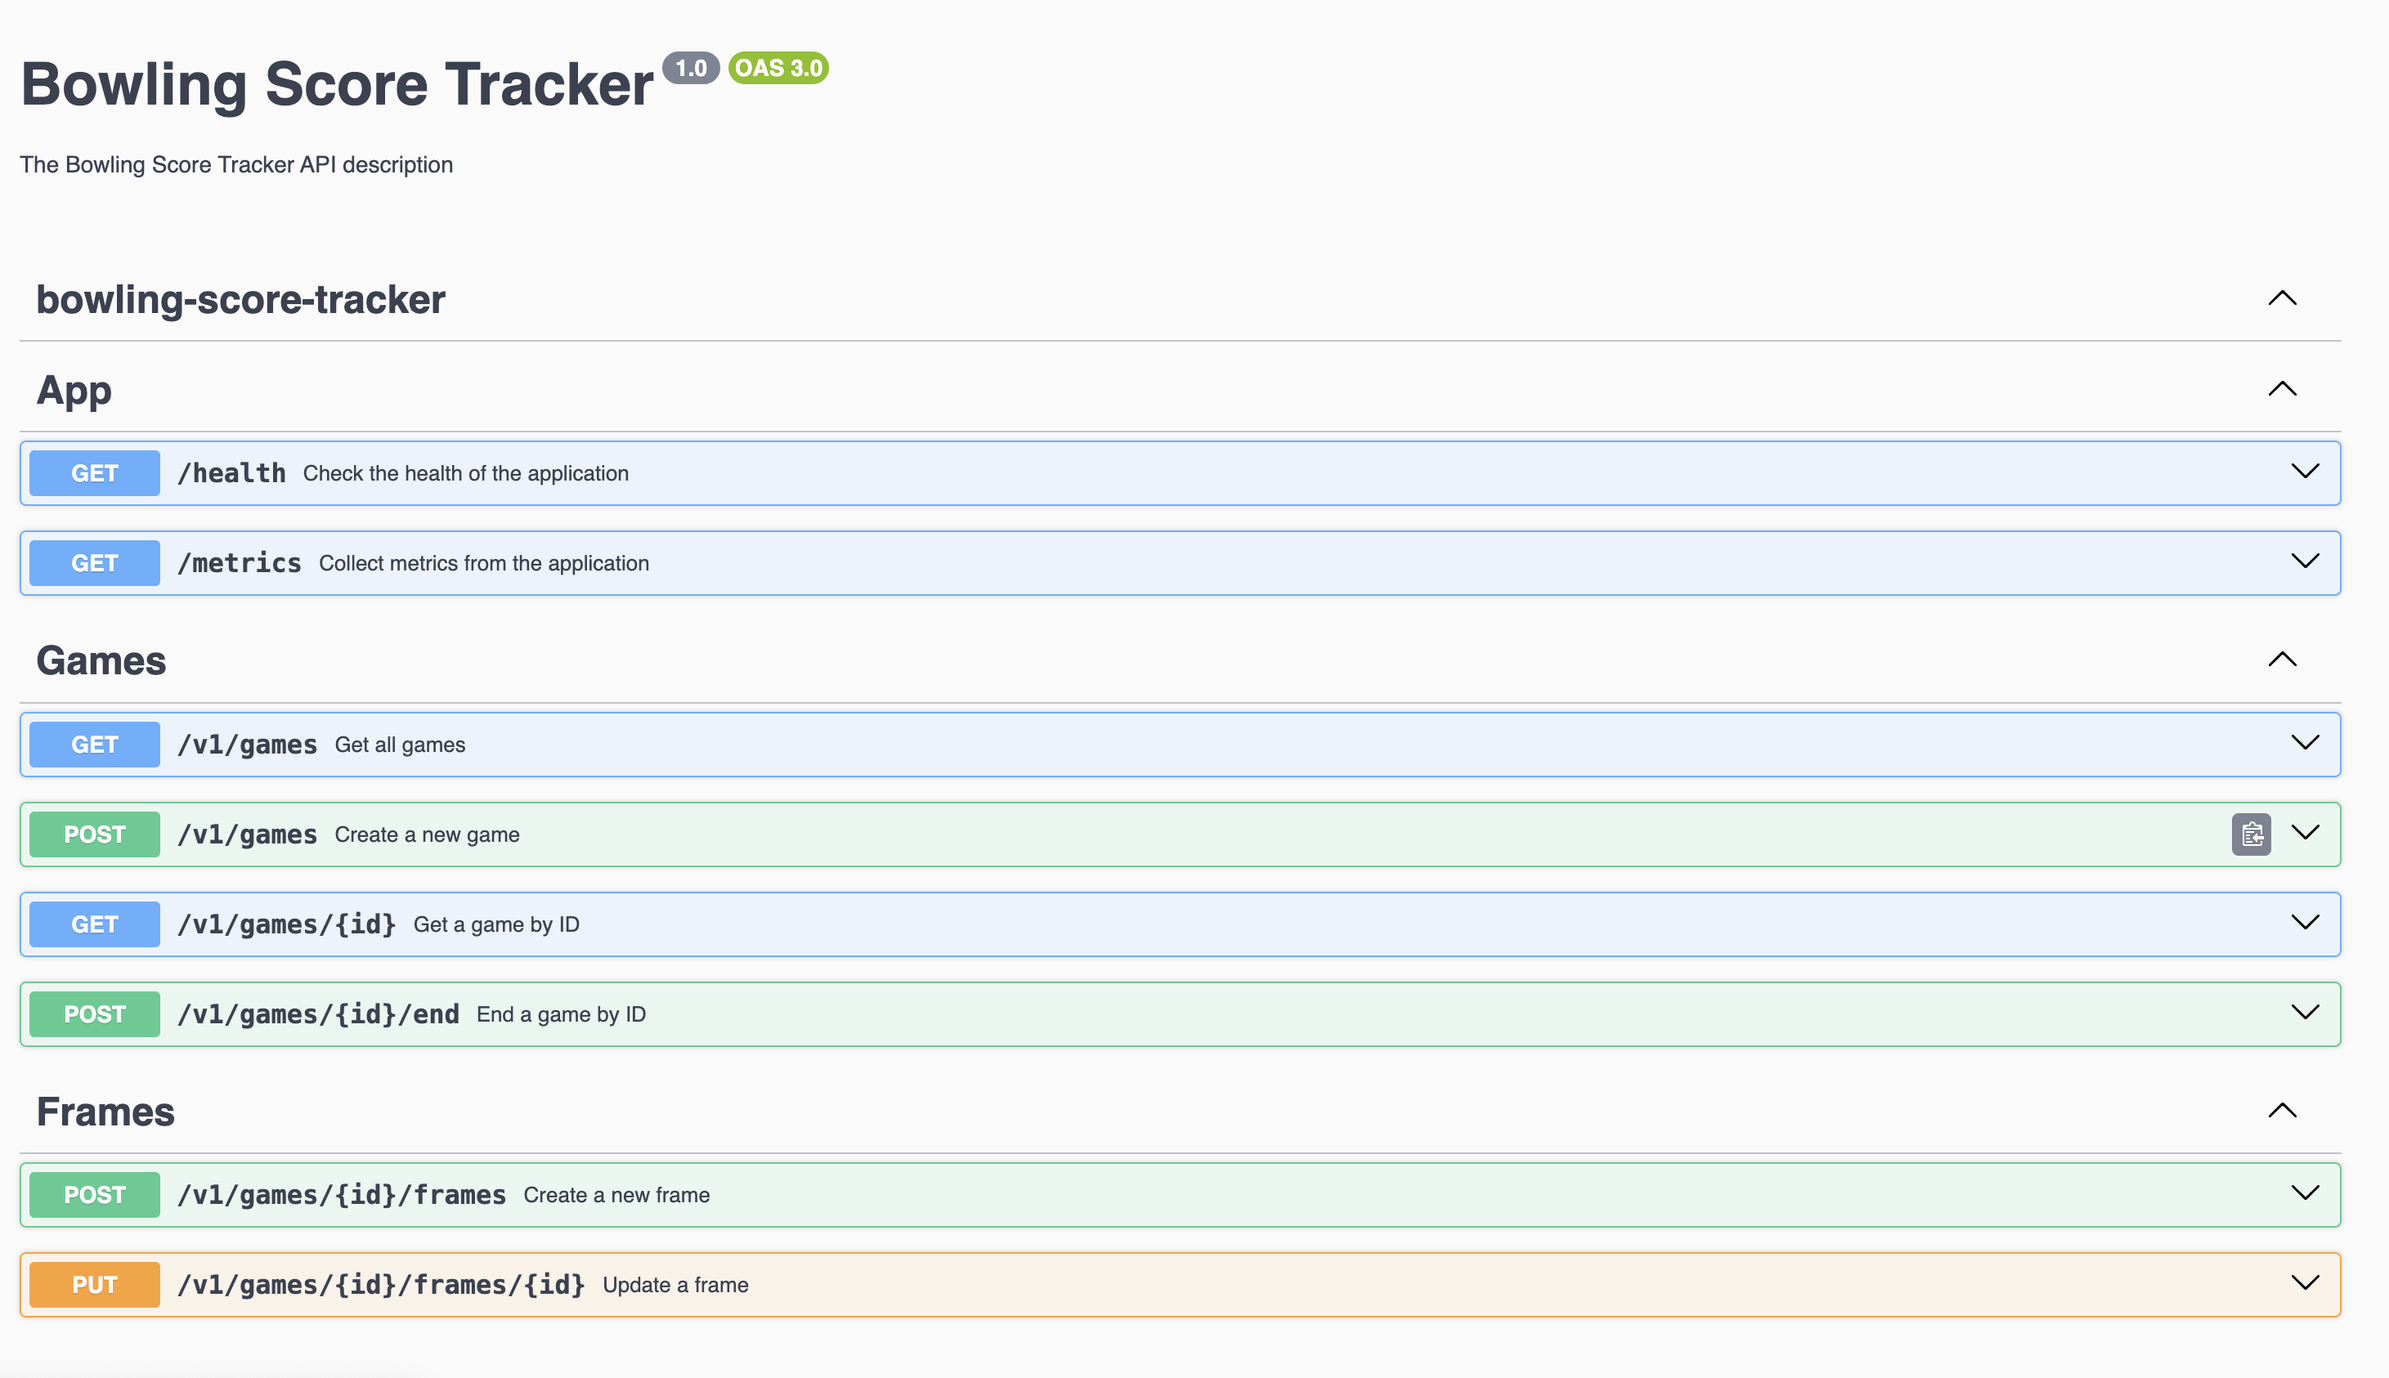
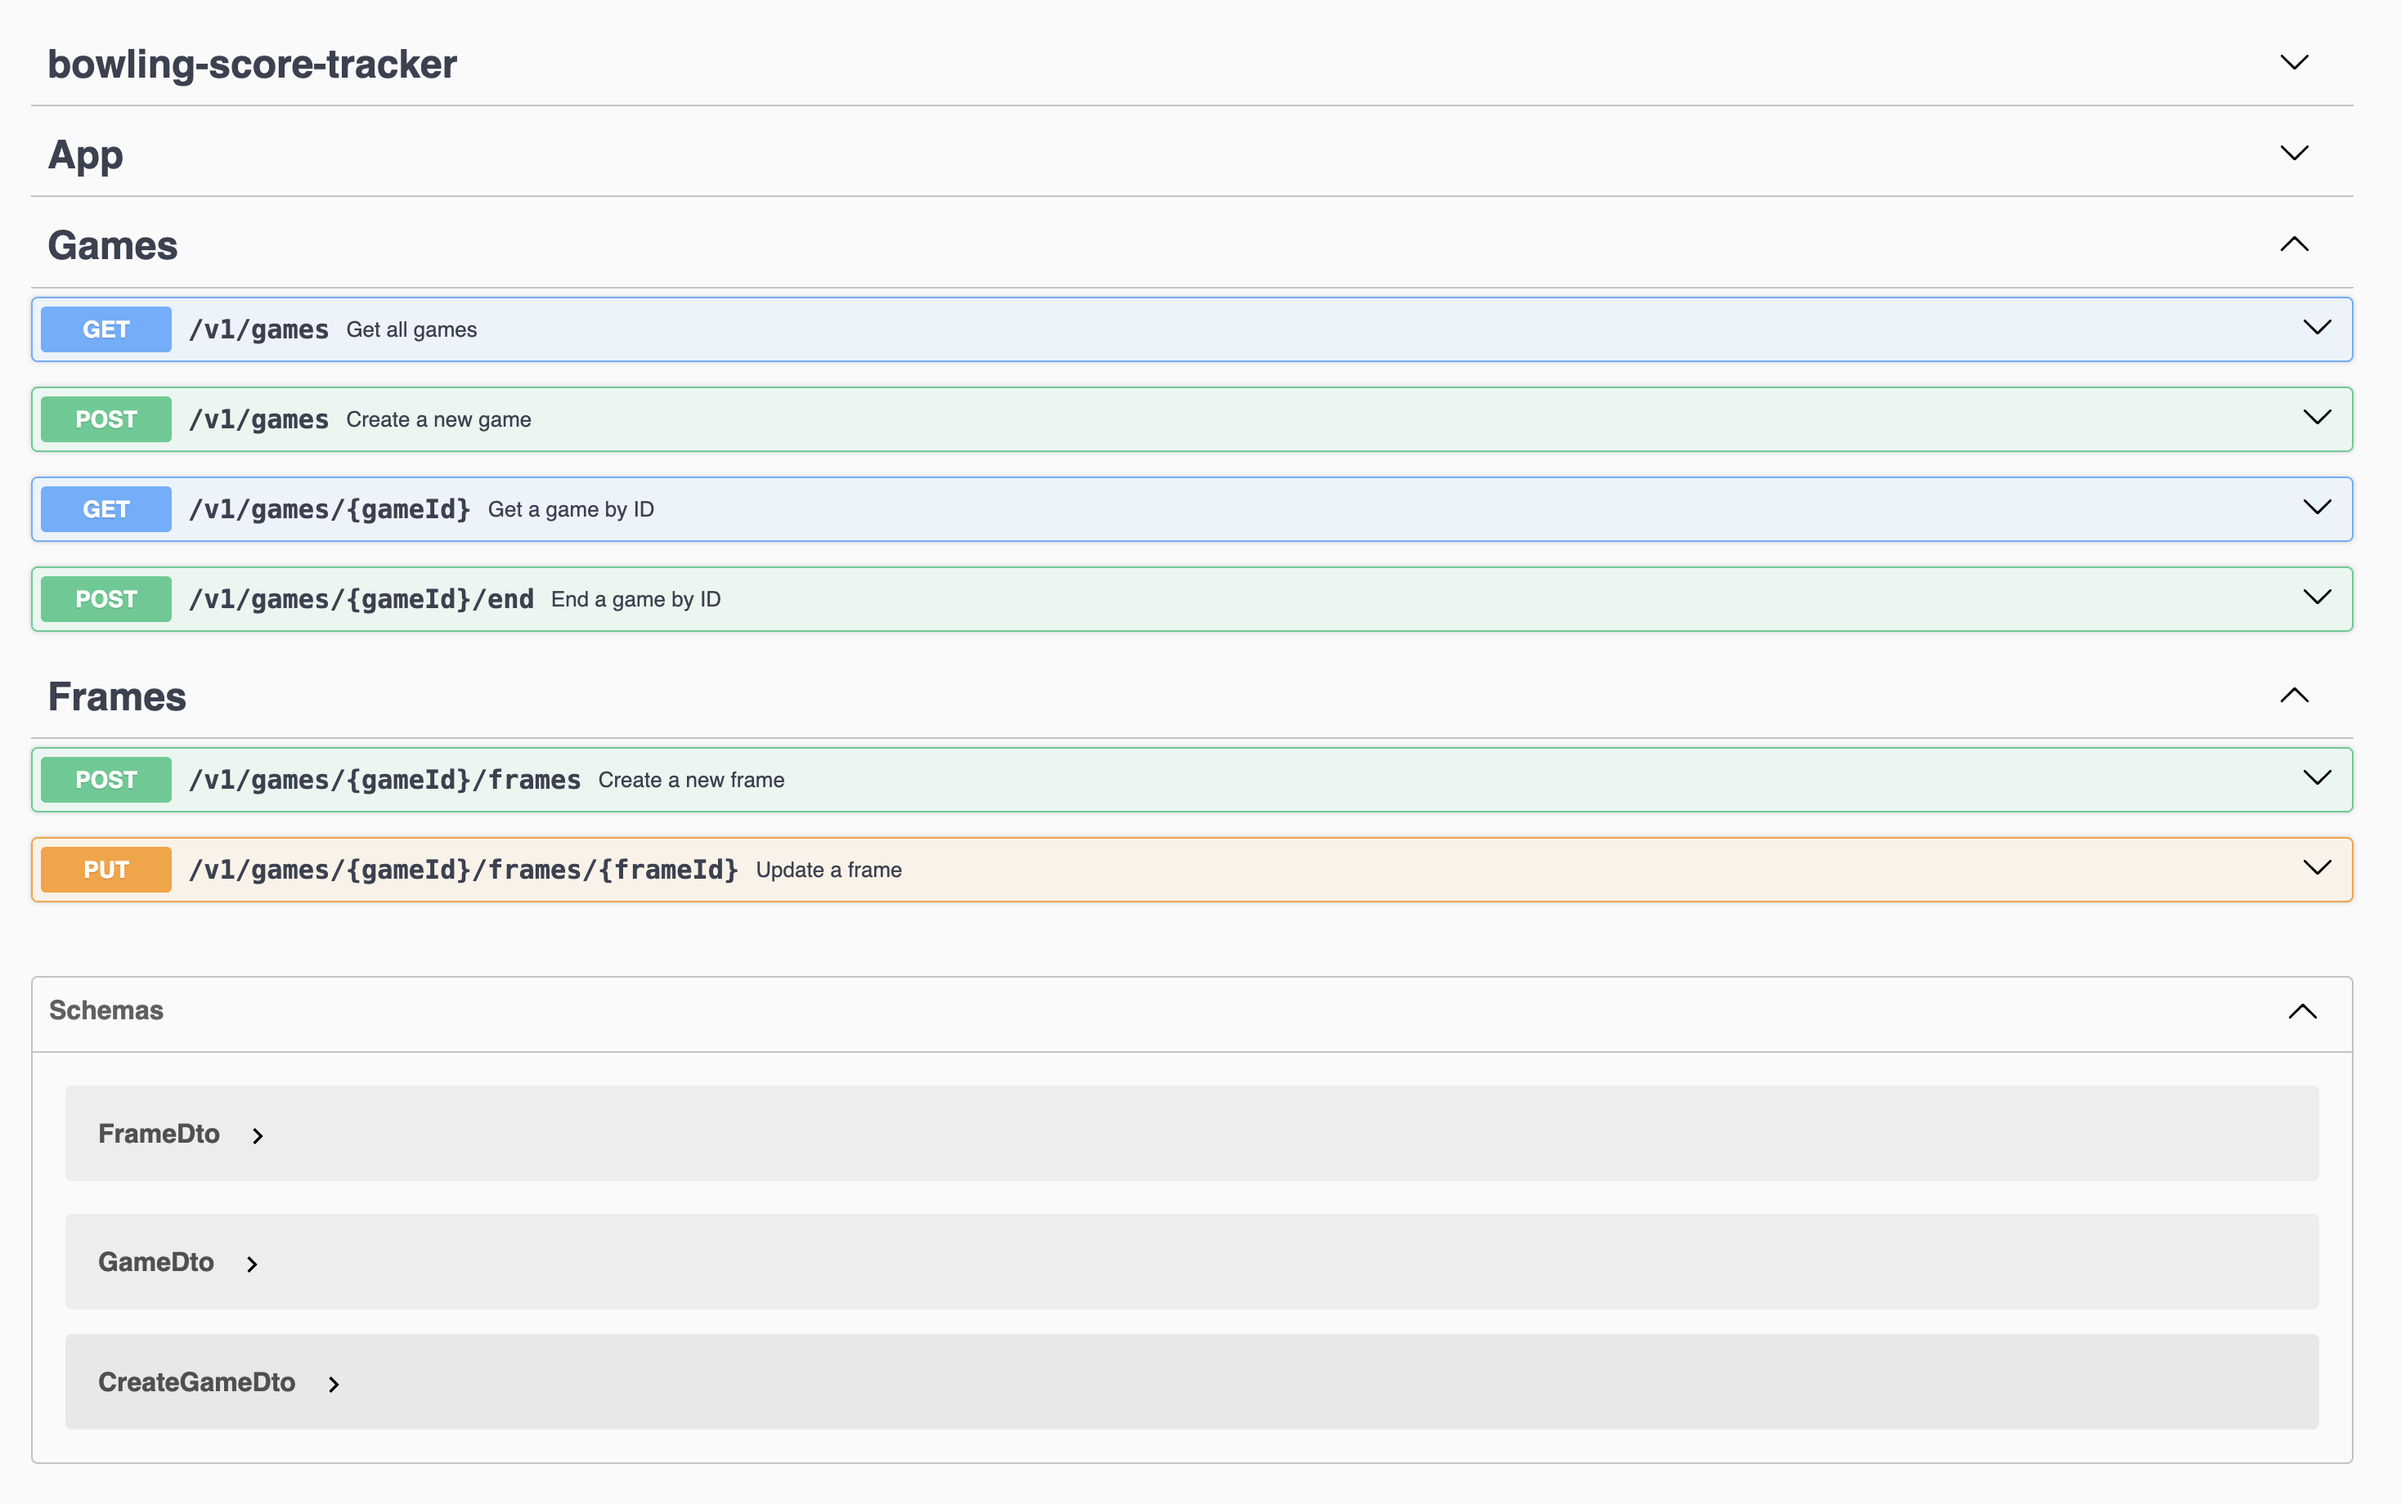
feat(api,web) 👌 refactor contract

diff --git a/apps/web/lib/api-generated/api.ts b/apps/web/lib/api-generated/api.ts
@@ -56,7 +56,7 @@ export interface paths {
         patch?: never;
         trace?: never;
     };
-    "/v1/games/{id}": {
+    "/v1/games/{gameId}": {
         parameters: {
             query?: never;
             header?: never;
@@ -73,7 +73,7 @@ export interface paths {
         patch?: never;
         trace?: never;
     };
-    "/v1/games/{id}/end": {
+    "/v1/games/{gameId}/end": {
         parameters: {
             query?: never;
             header?: never;
@@ -90,7 +90,7 @@ export interface paths {
         patch?: never;
         trace?: never;
     };
-    "/v1/games/{id}/frames": {
+    "/v1/games/{gameId}/frames": {
         parameters: {
             query?: never;
             header?: never;
@@ -107,7 +107,7 @@ export interface paths {
         patch?: never;
         trace?: never;
     };
-    "/v1/games/{id}/frames/{id}": {
+    "/v1/games/{gameId}/frames/{frameId}": {
         parameters: {
             query?: never;
             header?: never;
@@ -254,7 +254,7 @@ export interface operations {
             query?: never;
             header?: never;
             path: {
-                id: string;
+                gameId: string;
             };
             cookie?: never;
         };
@@ -276,7 +276,7 @@ export interface operations {
             query?: never;
             header?: never;
             path: {
-                id: string;
+                gameId: string;
             };
             cookie?: never;
         };
@@ -320,7 +320,7 @@ export interface operations {
             query?: never;
             header?: never;
             path: {
-                id: string;
+                frameId: string;
             };
             cookie?: never;
         };

diff --git a/apps/api/src/features/frames/frames.controller.ts b/apps/api/src/features/frames/frames.controller.ts
@@ -4,7 +4,7 @@ import { ApiOperation, ApiCreatedResponse, ApiOkResponse } from '@nestjs/swagger
 import { FramesService } from './frames.service';
 import { FrameDto } from './frame.dto';
 
-@Controller('games/:id/frames')
+@Controller('games/:gameId/frames')
 export class FramesController {
   constructor(private readonly framesService: FramesService) {}
 
@@ -15,10 +15,10 @@ export class FramesController {
     return this.framesService.create(createFrameDto);
   }
 
-  @Put(':id')
+  @Put(':frameId')
   @ApiOperation({ summary: 'Update a frame' })
   @ApiOkResponse({ description: 'Frame has been successfully updated.'}) 
-  async update(@Param('id') id: string, @Body() updateFrameDto: FrameDto): Promise<FrameDto> {
+  async update(@Param('frameId') id: string, @Body() updateFrameDto: FrameDto): Promise<FrameDto> {
     return this.framesService.update(id, updateFrameDto);
   }
 }

diff --git a/apps/web/app/page.tsx b/apps/web/app/page.tsx
@@ -1,11 +1,19 @@
 import { Button } from "@repo/ui/components/button"
+import Link from "next/link"
 
 export default function Page() {
   return (
     <div className="flex items-center justify-center min-h-svh">
       <div className="flex flex-col items-center justify-center gap-4">
-        <h1 className="text-2xl font-bold">Hello World</h1>
-        <Button size="sm">Button</Button>
+        <h1 className="text-2xl font-bold">Bowling Score Tracker</h1>
+        <div className="flex flex-col gap-4 min-w-[400px] mt-10">
+          <Button asChild className="w-full">
+            <Link href="/game-play">New Game</Link>
+          </Button>
+          <Button className="w-full" variant={"secondary"}>
+            <Link href="/game-history">View Scores</Link> 
+          </Button>
+        </div>
       </div>
     </div>
   )

diff --git a/apps/api/src/features/games/games.controller.ts b/apps/api/src/features/games/games.controller.ts
@@ -22,17 +22,17 @@ export class GamesController {
     return this.gamesService.create(createGameDto);
   }
 
-  @Get(':id')
+  @Get(':gameId')
   @ApiOperation({ summary: 'Get a game by ID' })
   @ApiOkResponse({ type: GameDto, description: 'Game has been successfully retrieved.'})
-  async findOne(@Param('id') id: string): Promise<GameDto> {
+  async findOne(@Param('gameId') id: string): Promise<GameDto> {
     return this.gamesService.findOne(id);
   }
 
-  @Post(':id/end')
+  @Post(':gameId/end')
   @ApiOperation({ summary: 'End a game by ID' })
   @ApiCreatedResponse({ type: GameDto, description: 'Game has been successfully ended.'})
-  async endGame(@Param('id') id: string): Promise<GameDto> {
+  async endGame(@Param('gameId') id: string): Promise<GameDto> {
     return this.gamesService.endGame(id);
   }
 }

diff --git a/apps/web/app/game-play/_hooks/mutation.ts b/apps/web/app/game-play/_hooks/mutation.ts
@@ -1,0 +1,17 @@
+import { useApiClient } from "@/hooks/common";
+
+export const useGameCreationMutation = () => {
+  return useApiClient().useMutation("post", "/v1/games");
+};
+``
+export const useGameEndMutation = () => {
+  return useApiClient().useMutation("post", "/v1/games/{gameId}/end");
+};
+
+export const useGameFrameCreationMutation = () => {
+  return useApiClient().useMutation("post", "/v1/games/{gameId}/frames");
+};
+
+export const useGameFrameUpdateMutation = () => {
+  return useApiClient().useMutation("put", "/v1/games/{gameId}/frames/{frameId}");
+};

diff --git a/apps/api/src/features/frames/frames.controller.spec.ts b/apps/api/src/features/frames/frames.controller.spec.ts
@@ -28,7 +28,7 @@ describe('FramesController', () => {
     jest.clearAllMocks();
   });
 
-  describe('POST /games/:id/frames', () => {
+  describe('POST /games/:gameId/frames', () => {
     it('should create a frame', async () => {
       const newFrame = {
         game_id: '1',
@@ -56,7 +56,7 @@ describe('FramesController', () => {
     })
   })
 
-  describe('PUT /games/:id/frames/:frameId', () => {
+  describe('PUT /games/:gameId/frames/:frameId', () => {
     it('should update a frame', async () => {
        const existedFrame = {
         game_id: '1',

diff --git a/apps/web/app/game-play/_hooks/query.ts b/apps/web/app/game-play/_hooks/query.ts
@@ -1,0 +1,13 @@
+import { useApiClient } from "@/hooks/common";
+
+export const useGameHistoryQuery = () => {
+  return useApiClient().useQuery("get", "/v1/games");
+};
+
+export const useGameDetailQuery = (gameId: string) => {
+  return useApiClient().useQuery("get", "/v1/games/{gameId}", {
+     params: {
+        path: { gameId },
+      },
+  });
+}

diff --git a/apps/web/lib/openapi.ts b/apps/web/lib/openapi.ts
@@ -1,0 +1,12 @@
+
+import type { paths } from "@/lib/api-generated/api";
+import createClient from "openapi-fetch";
+
+export const createOpenApiClient = () => {
+  return createClient<paths>({
+    baseUrl: process.env.NEXT_PUBLIC_CLIENT_API_URL,
+    headers: {
+      "Content-Type": "application/json",
+    },
+  });
+};

diff --git a/apps/web/hooks/common.ts b/apps/web/hooks/common.ts
@@ -1,0 +1,9 @@
+
+import createClient from "openapi-react-query";
+import { createOpenApiClient } from "@/lib/openapi";
+import { useMemo } from "react";
+
+export const useApiClient = () => {
+  const client = createOpenApiClient();
+  return useMemo(() => createClient(client), [client]);
+};

diff --git a/apps/web/app/game-play/_hooks/types.ts b/apps/web/app/game-play/_hooks/types.ts
@@ -1,0 +1,5 @@
+import type { components } from "@/lib/api-generated/api";
+
+export type GameDto = components["schemas"]["GameDto"];
+export type FrameDto = components["schemas"]["FrameDto"];
+export type CreateGameDto = components["schemas"]["CreateGameDto"];

diff --git a/packages/ui/src/styles/globals.css b/packages/ui/src/styles/globals.css
@@ -144,4 +144,7 @@
   body {
     @apply bg-background text-foreground;
   }
+button {
+  @apply cursor-pointer;
+}
 }

diff --git a/apps/web/app/game-history/page.tsx b/apps/web/app/game-history/page.tsx
@@ -1,0 +1,4 @@
+
+export default function GameHistory() {
+  return <div>GameHistory</div>
+}
